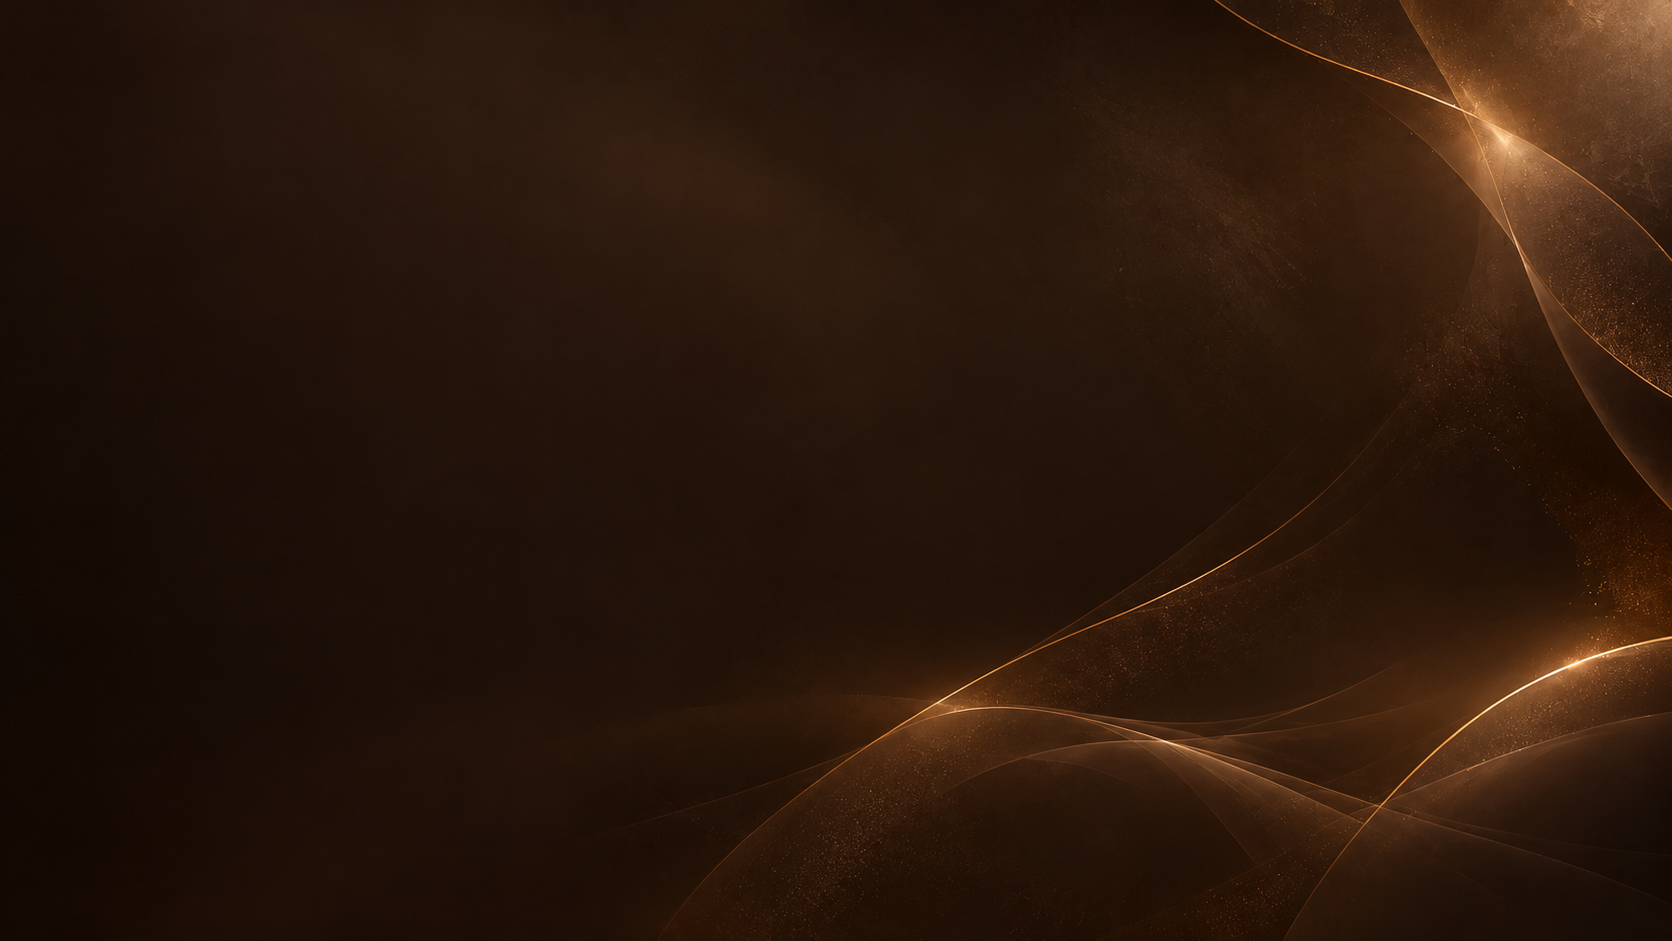
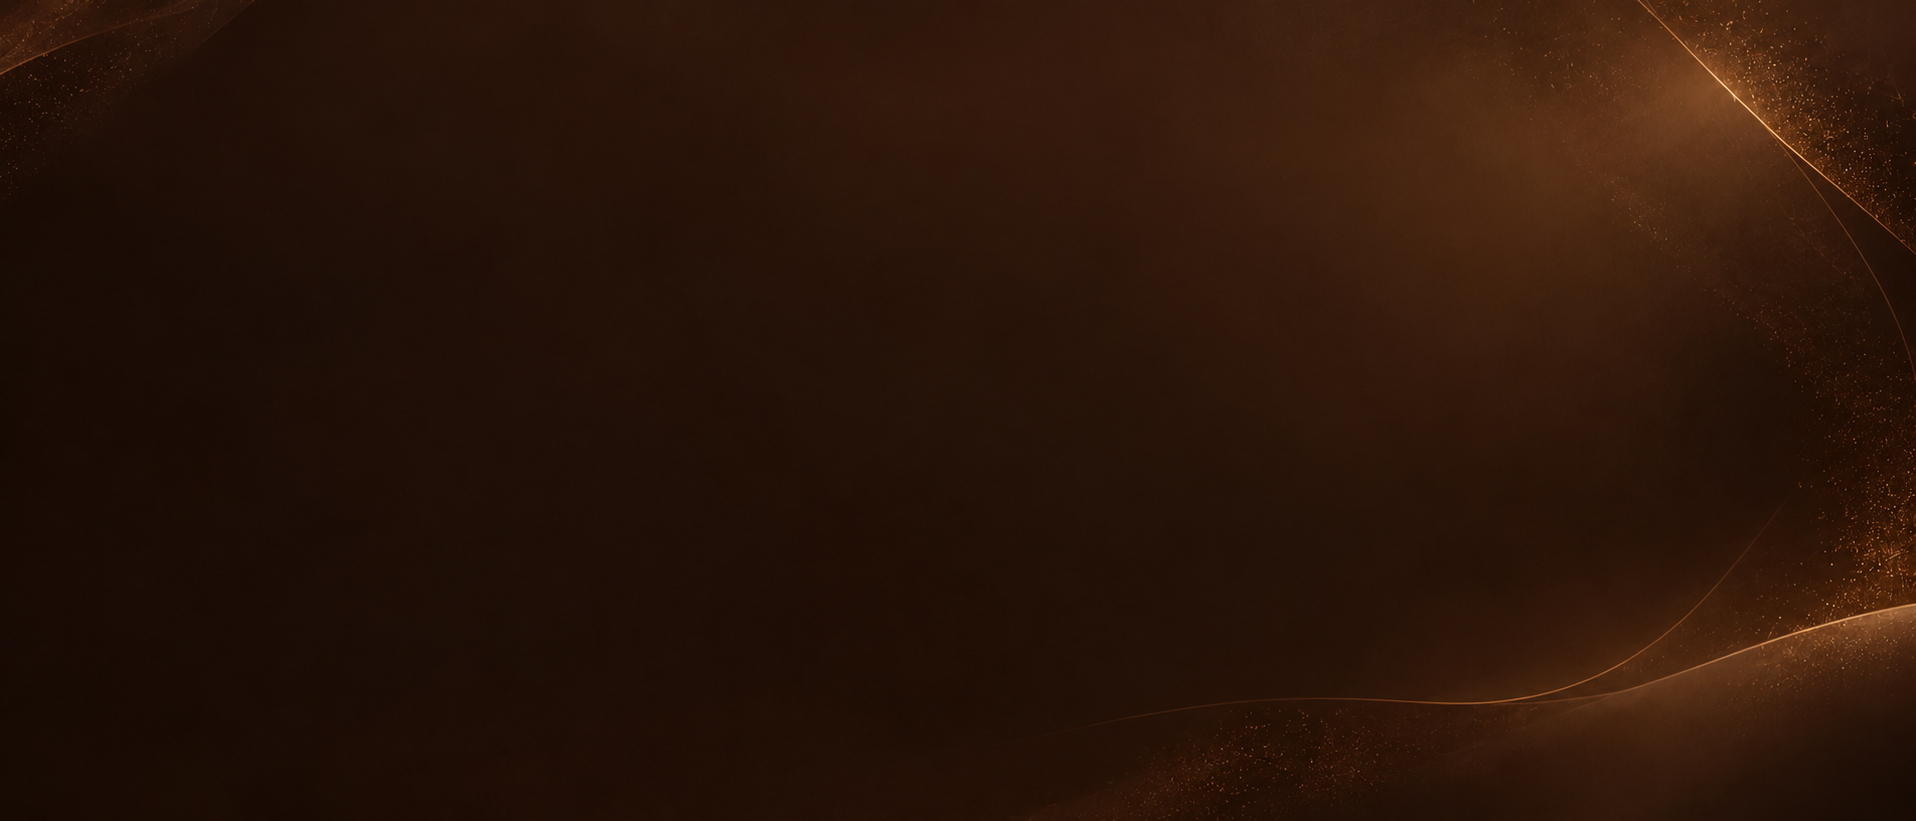
Atualiza fundo da hero e equilibra separadores do carrossel

diff --git a/assets/css/styles.css b/assets/css/styles.css
@@ -479,7 +479,7 @@ h1 { font-size: clamp(64px, 7.15vw, 109px); line-height: .99; }
 .hero-logo-photo img { position: absolute; inset: 0; object-fit: contain; }
 .hero-marquee { position: relative; overflow: hidden; border-block: 1px solid rgb(237 197 168 / 25%); padding-block: 23px; background: rgb(18 10 6 / 32%); }
 .hero-marquee-track { display: flex; width: max-content; animation: hero-ticker 45s linear infinite !important; }
-.hero-marquee ul { list-style: none; display: flex; justify-content: space-around; min-width: 100vw; gap: 46px; padding-right: 46px; flex-shrink: 0; }
+.hero-marquee ul { list-style: none; display: flex; justify-content: flex-start; gap: 46px; padding-right: 46px; flex-shrink: 0; }
 .hero-marquee li { display: flex; align-items: center; gap: 46px; font-size: 14px; letter-spacing: .03em; white-space: nowrap; }
 .hero-marquee li span { color: #d7ab87; font-size: 12px; }
 @keyframes hero-ticker { to { transform: translateX(-50%); } }
